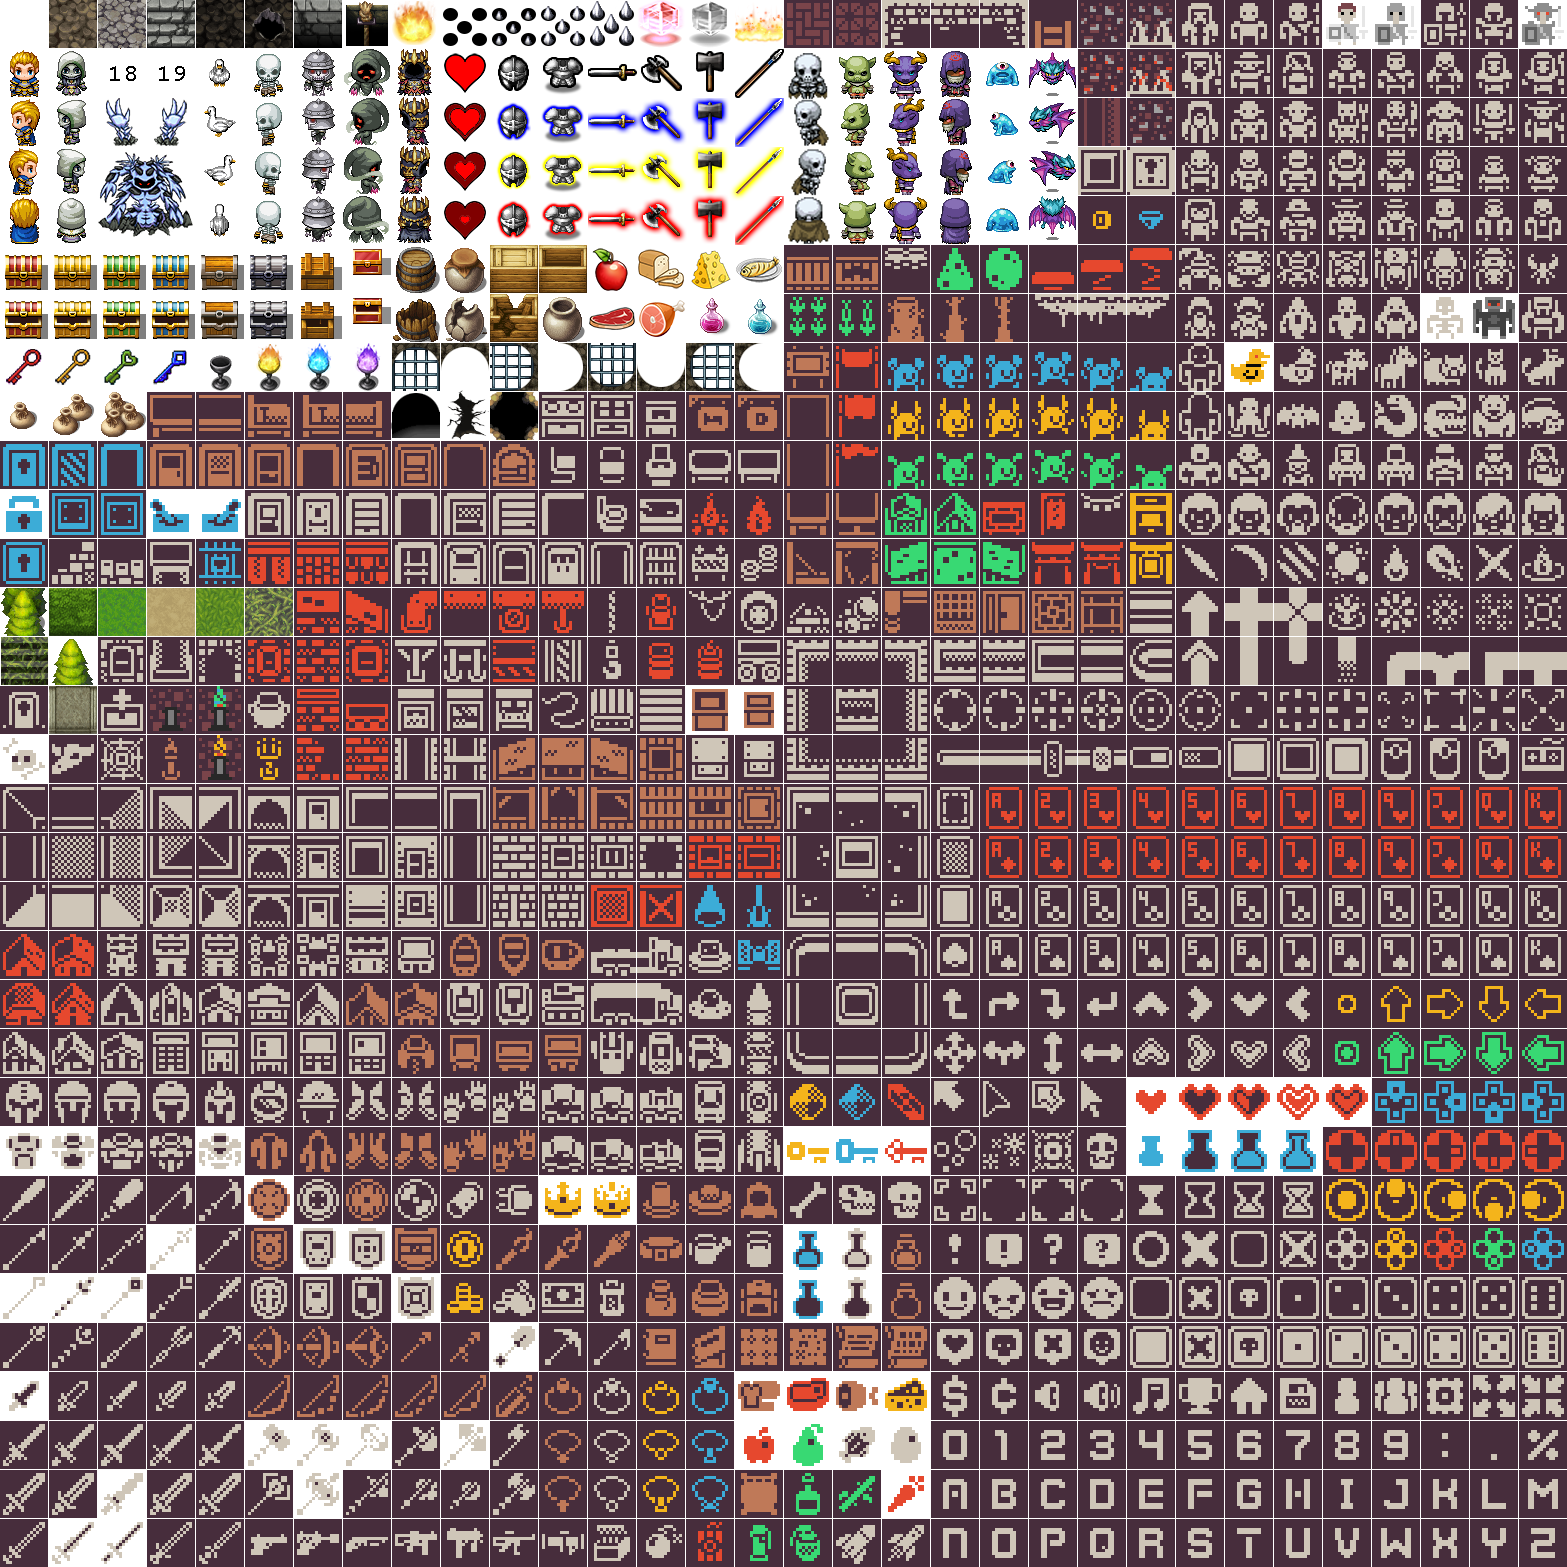
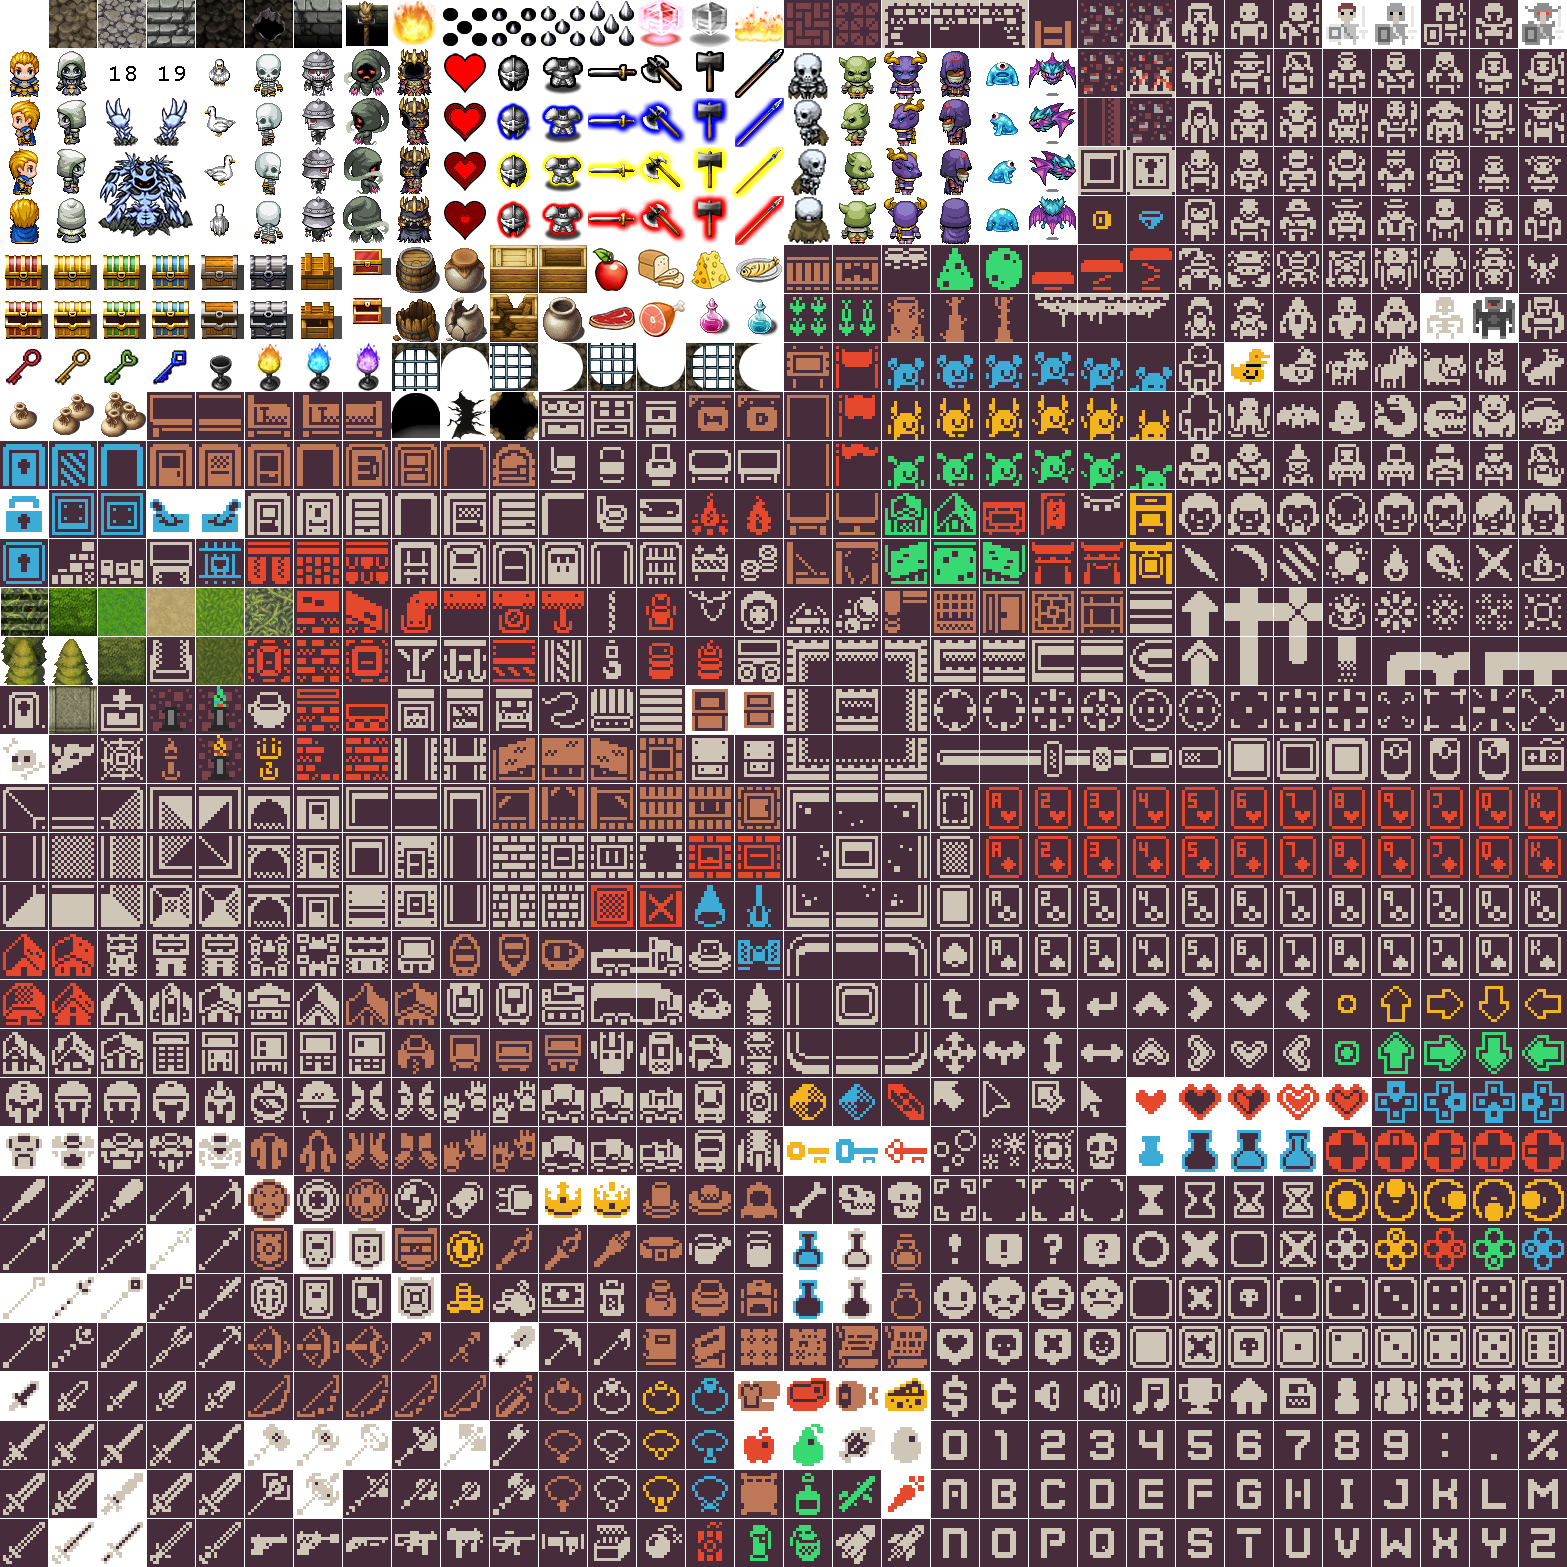
The forest got a little bleaker

diff --git a/src/main/java/com/codecool/dungeoncrawl/Tiles.java b/src/main/java/com/codecool/dungeoncrawl/Tiles.java
@@ -27,19 +27,19 @@ public class Tiles {
 
     static {
         tileMap.put("empty", new Tile(0, 0));
-        tileMap.put("trees", new Tile(0, 12));
+        tileMap.put("trees", new Tile(0, 13));
         tileMap.put("treeTop", new Tile(1, 13));
         tileMap.put("wall", new Tile(1, 0));
-        tileMap.put("bushes", new Tile(1, 12));
+        tileMap.put("bushes", new Tile(2, 13));
         tileMap.put("palaceWall", new Tile(1, 14));
         tileMap.put("suspiciousWall", new Tile(1, 0));
         tileMap.put("secretPassage", new Tile(2, 0));
         tileMap.put("passage", new Tile(3, 0));
         tileMap.put("floor", new Tile(2, 0));
-        tileMap.put("forestPath", new Tile(4, 12));
+        tileMap.put("forestPath", new Tile(4, 13));
         tileMap.put("hiddenEnemySpawner", new Tile(2, 0));
         tileMap.put("stairwayUp", new Tile(3, 0));
-        tileMap.put("stairwayUpMap2", new Tile(0, 13));
+        tileMap.put("stairwayUpMap2", new Tile(0, 12));
         tileMap.put("stairwayDown", new Tile(6, 0));
         tileMap.put("secretPassageDown", new Tile(7, 0));
 
